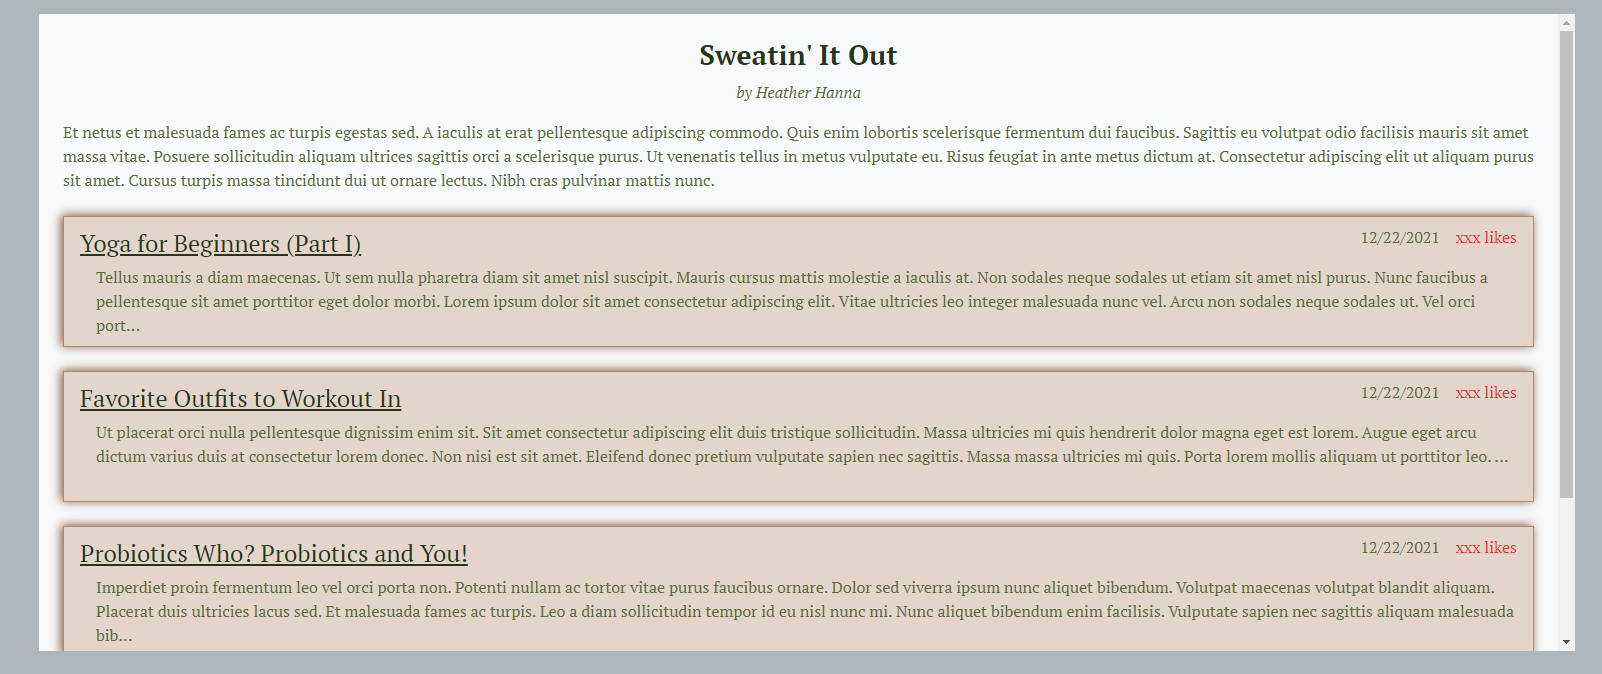
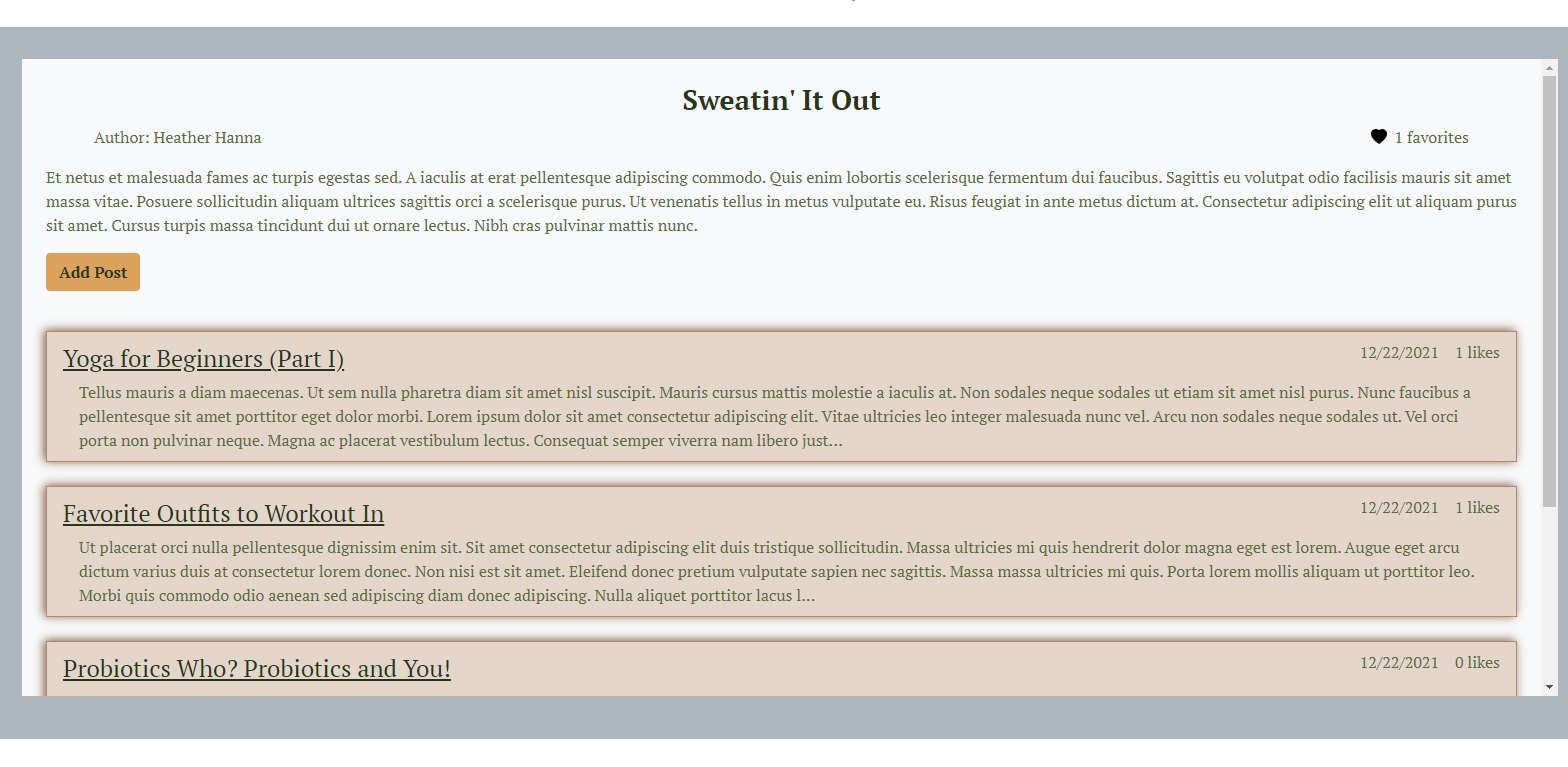
updated readme && screenshots with new features

diff --git a/README.md b/README.md
@@ -43,23 +43,35 @@ ___
 
 * Logged In User Features  
     * View account details, blogs the user has created and blogs/posts that the user has liked
-    ###### Red text indicates features that have not been added, but will be added
 
     <img src="./screenshots/MyAccount.PNG" alt="View Task" width="300">
 
     * Create a blog
+
     <img src="./screenshots/CreateBlog.PNG" alt="View Task" width="300">
 
     * Edit/delete a blog
+
     <img src="./screenshots/EditBlog.PNG" alt="View Task" width="300">
 
     * Add a blog post
+
     <img src="./screenshots/CreatePost.PNG" alt="View Task" width="300">
 
     * Edit/delete a blog post
+
     <img src="./screenshots/EditPost.PNG" alt="View Task" width="300">
 
+    * Favorite a blog
+
+    <img src="./screenshots/Blog2.PNG" alt="Blog Page" width="300">
+
+    * Like a blog post
+
+    <img src="./screenshots/Post2.PNG" alt="Blog Page" width="300">
+
     * Comment on a blog post
+
     <img src="./screenshots/Comment.PNG" alt="View Task" width="300">
 
 
